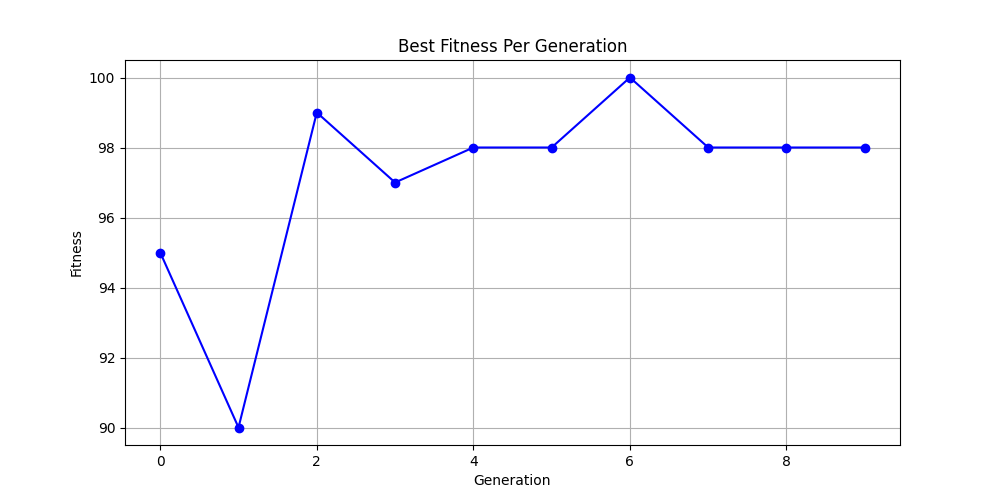
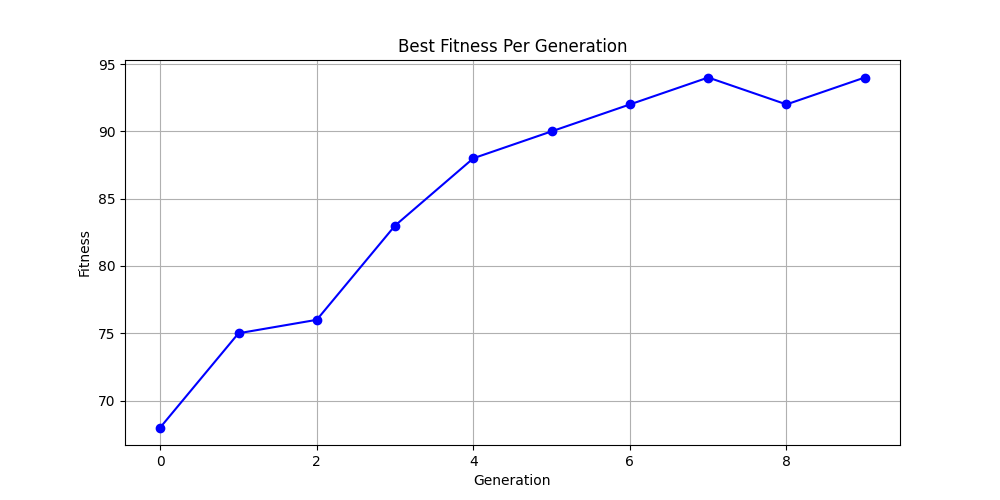
added best models, agetn loading, new figures

diff --git a/main.py b/main.py
@@ -7,28 +7,36 @@ import players.genetic_algorithm as ga
 import players.dqn as dqn
 from experiment import run_experiment
 
+TRAIN_AGENTS = False
 SHOW_TRAINING = True
 GAMES = 100
 
-def initialize_players():
-    players = [
+def initialize_agents():
+    agents = [
         Human(),
         Greedy(),
         Naive(),
-        Minimax(),
-        ga.GeneticAgent('ga_vanilla', ga.train_genetic(verbose=SHOW_TRAINING)),
-        ga.GeneticAgent('ga_tournament', ga.train_genetic(simulations=1, tournament=100, verbose=SHOW_TRAINING)),
+        Minimax('minimax_even'),
+        Minimax(name='minimax_odd', depth=3)
     ]
-    players.append(dqn.DQNAgent('dqn', opponents=[Minimax()]).train_dqn(SHOW_TRAINING))
-    players.append(dqn.DQNAgent('ddqn', opponents=[Minimax()], double_dqn=True).train_dqn(SHOW_TRAINING))
-    return players
+    if TRAIN_AGENTS:
+        agents.append(ga.GeneticAgent('ga_vanilla', ga.train_genetic(verbose=SHOW_TRAINING)))
+        agents.append(ga.GeneticAgent('ga_tournament', ga.train_genetic(simulations=1, tournament=100, verbose=SHOW_TRAINING)))
+        agents.append(dqn.DQNAgent('dqn').train_dqn(SHOW_TRAINING))
+        agents.append(dqn.DQNAgent('ddqn', double_dqn=True).train_dqn(SHOW_TRAINING))
+    else:
+        agents.append(ga.load('best_models/ga_vanilla'))
+        agents.append(ga.load('best_models/ga_tournament'))
+        agents.append(dqn.DQNAgent().load('best_models/dqn.pth'))
+        agents.append(dqn.DQNAgent('ddqn').load('best_models/ddqn.pth'))
+    return agents
 
-def play_mancala(players):
-    for p in players[1:]:
+def play_mancala(agents):
+    for p in agents[1:]:
         print('Playing against:', p.name)
-        Game({1: p, 2: players[0]}).game_loop(verbose=True)
+        Game({1: p, 2: agents[0]}).game_loop(verbose=True)
 
 if __name__ == "__main__":
-    players = initialize_players()
-    run_experiment(players, GAMES)
-    play_mancala(players)
+    agents = initialize_agents()
+    run_experiment(agents, GAMES)
+    play_mancala(agents)

diff --git a/players/dqn.py b/players/dqn.py
@@ -55,7 +55,7 @@ class EGreedy:
         return False
 
 class DQNAgent:
-    def __init__(self, name='dqn', opponents=[Naive()], episodes=500, epsilon_min=0.01, epsilon_decay=0.99, batch_size=256, capacity=10000, gamma=0.9, learning_rate=0.001, neurons=32, tau=0.01, double_dqn=False):
+    def __init__(self, name='dqn', opponents=[Naive()], episodes=300, epsilon_min=0.01, epsilon_decay=0.99, batch_size=512, capacity=10000, gamma=0.9, learning_rate=0.0001, neurons=64, tau=0.01, double_dqn=False):
         self.name = name
         self.state_size = (mancala.STORE + 1) * 2
         self.action_size = mancala.STORE
@@ -95,7 +95,7 @@ class DQNAgent:
     def update_target_model(self):
         for target_param, policy_param in zip(self.target_model.parameters(), self.policy_model.parameters()):
             target_param.data.copy_(self.tau * policy_param.data + (1 - self.tau) * target_param.data)
-    
+
     def load(self, path, neurons=None):
         state_dict = torch.load(path)
         if neurons:
@@ -107,7 +107,7 @@ class DQNAgent:
         self.policy_model.eval()
         self.e_greedy.epsilon = 0
         return self
-    
+
     def save(self, path):
         model_path = os.path.join(path, f'dqn_model_{self.name}.pth')
         state_dict = {
@@ -150,7 +150,7 @@ class DQNAgent:
         self.optimizer.step()
         self.e_greedy.update()
         return loss.item()
-    
+
     def calculate_reward(self, env, player, init_score, info):
         score = env.board[player][mancala.STORE]
         reward = score - init_score

diff --git a/players/genetic_algorithm.py b/players/genetic_algorithm.py
@@ -1,6 +1,6 @@
 import random
-import matplotlib.pyplot as plt
 import pickle
+import matplotlib.pyplot as plt
 import mancala
 from players.naive import Naive
 
